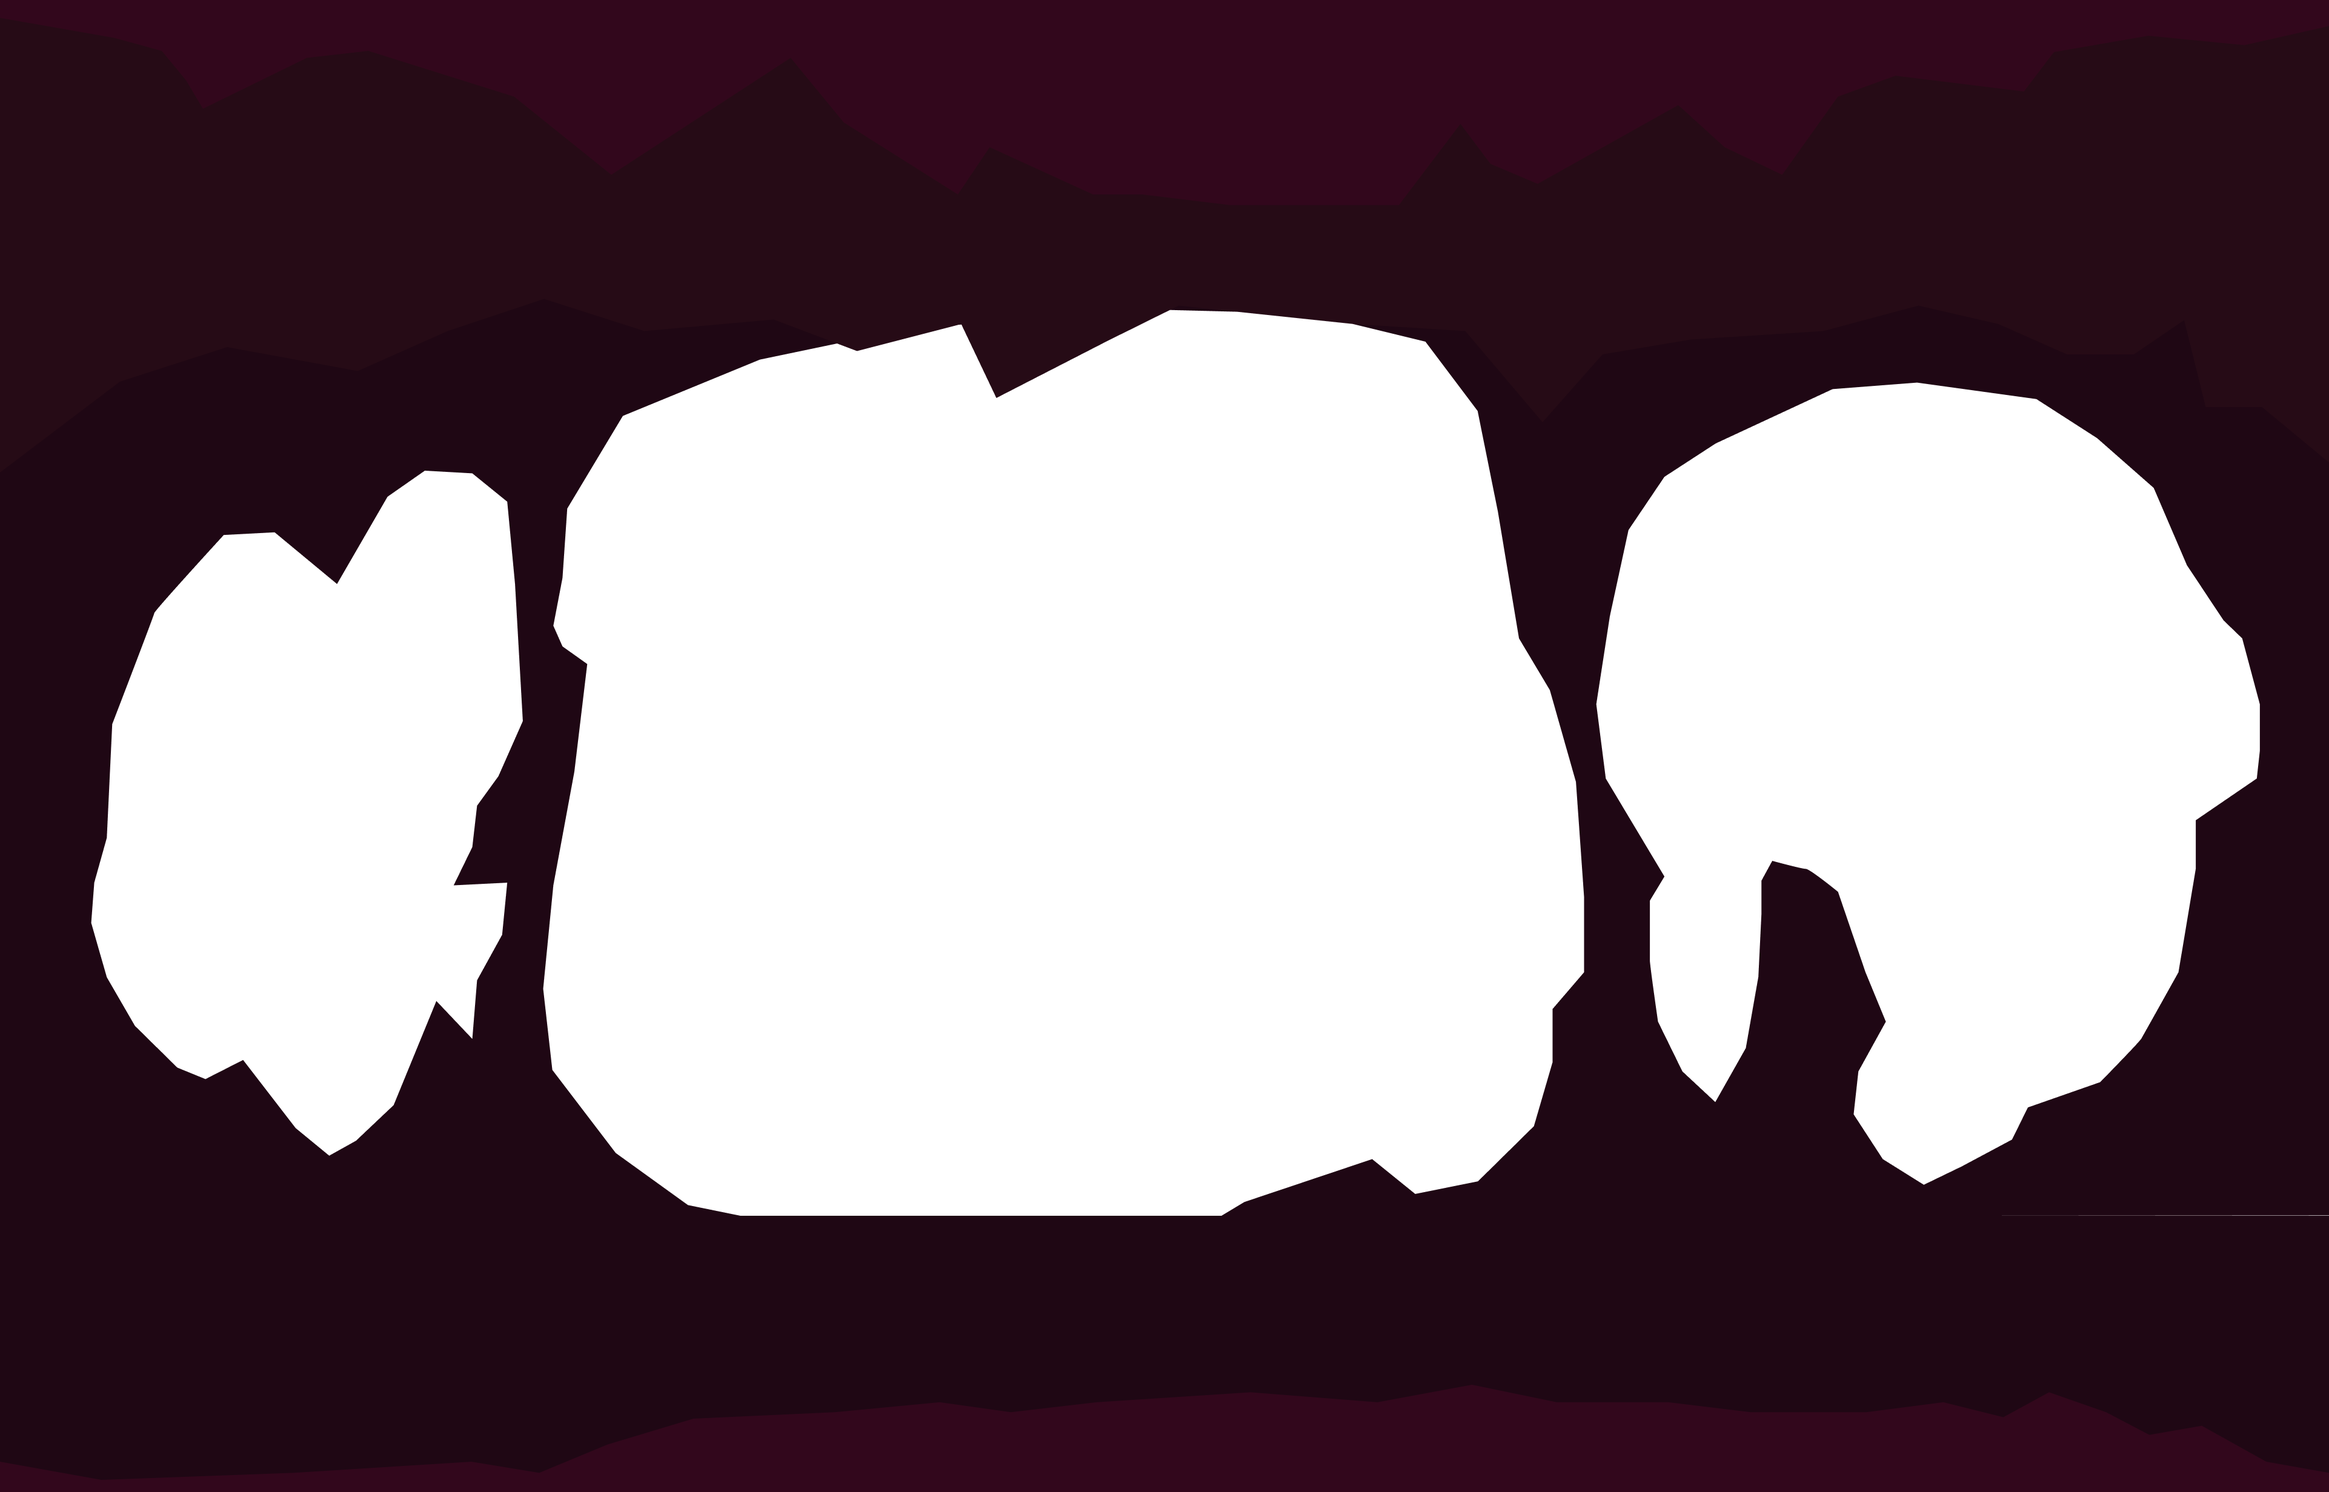
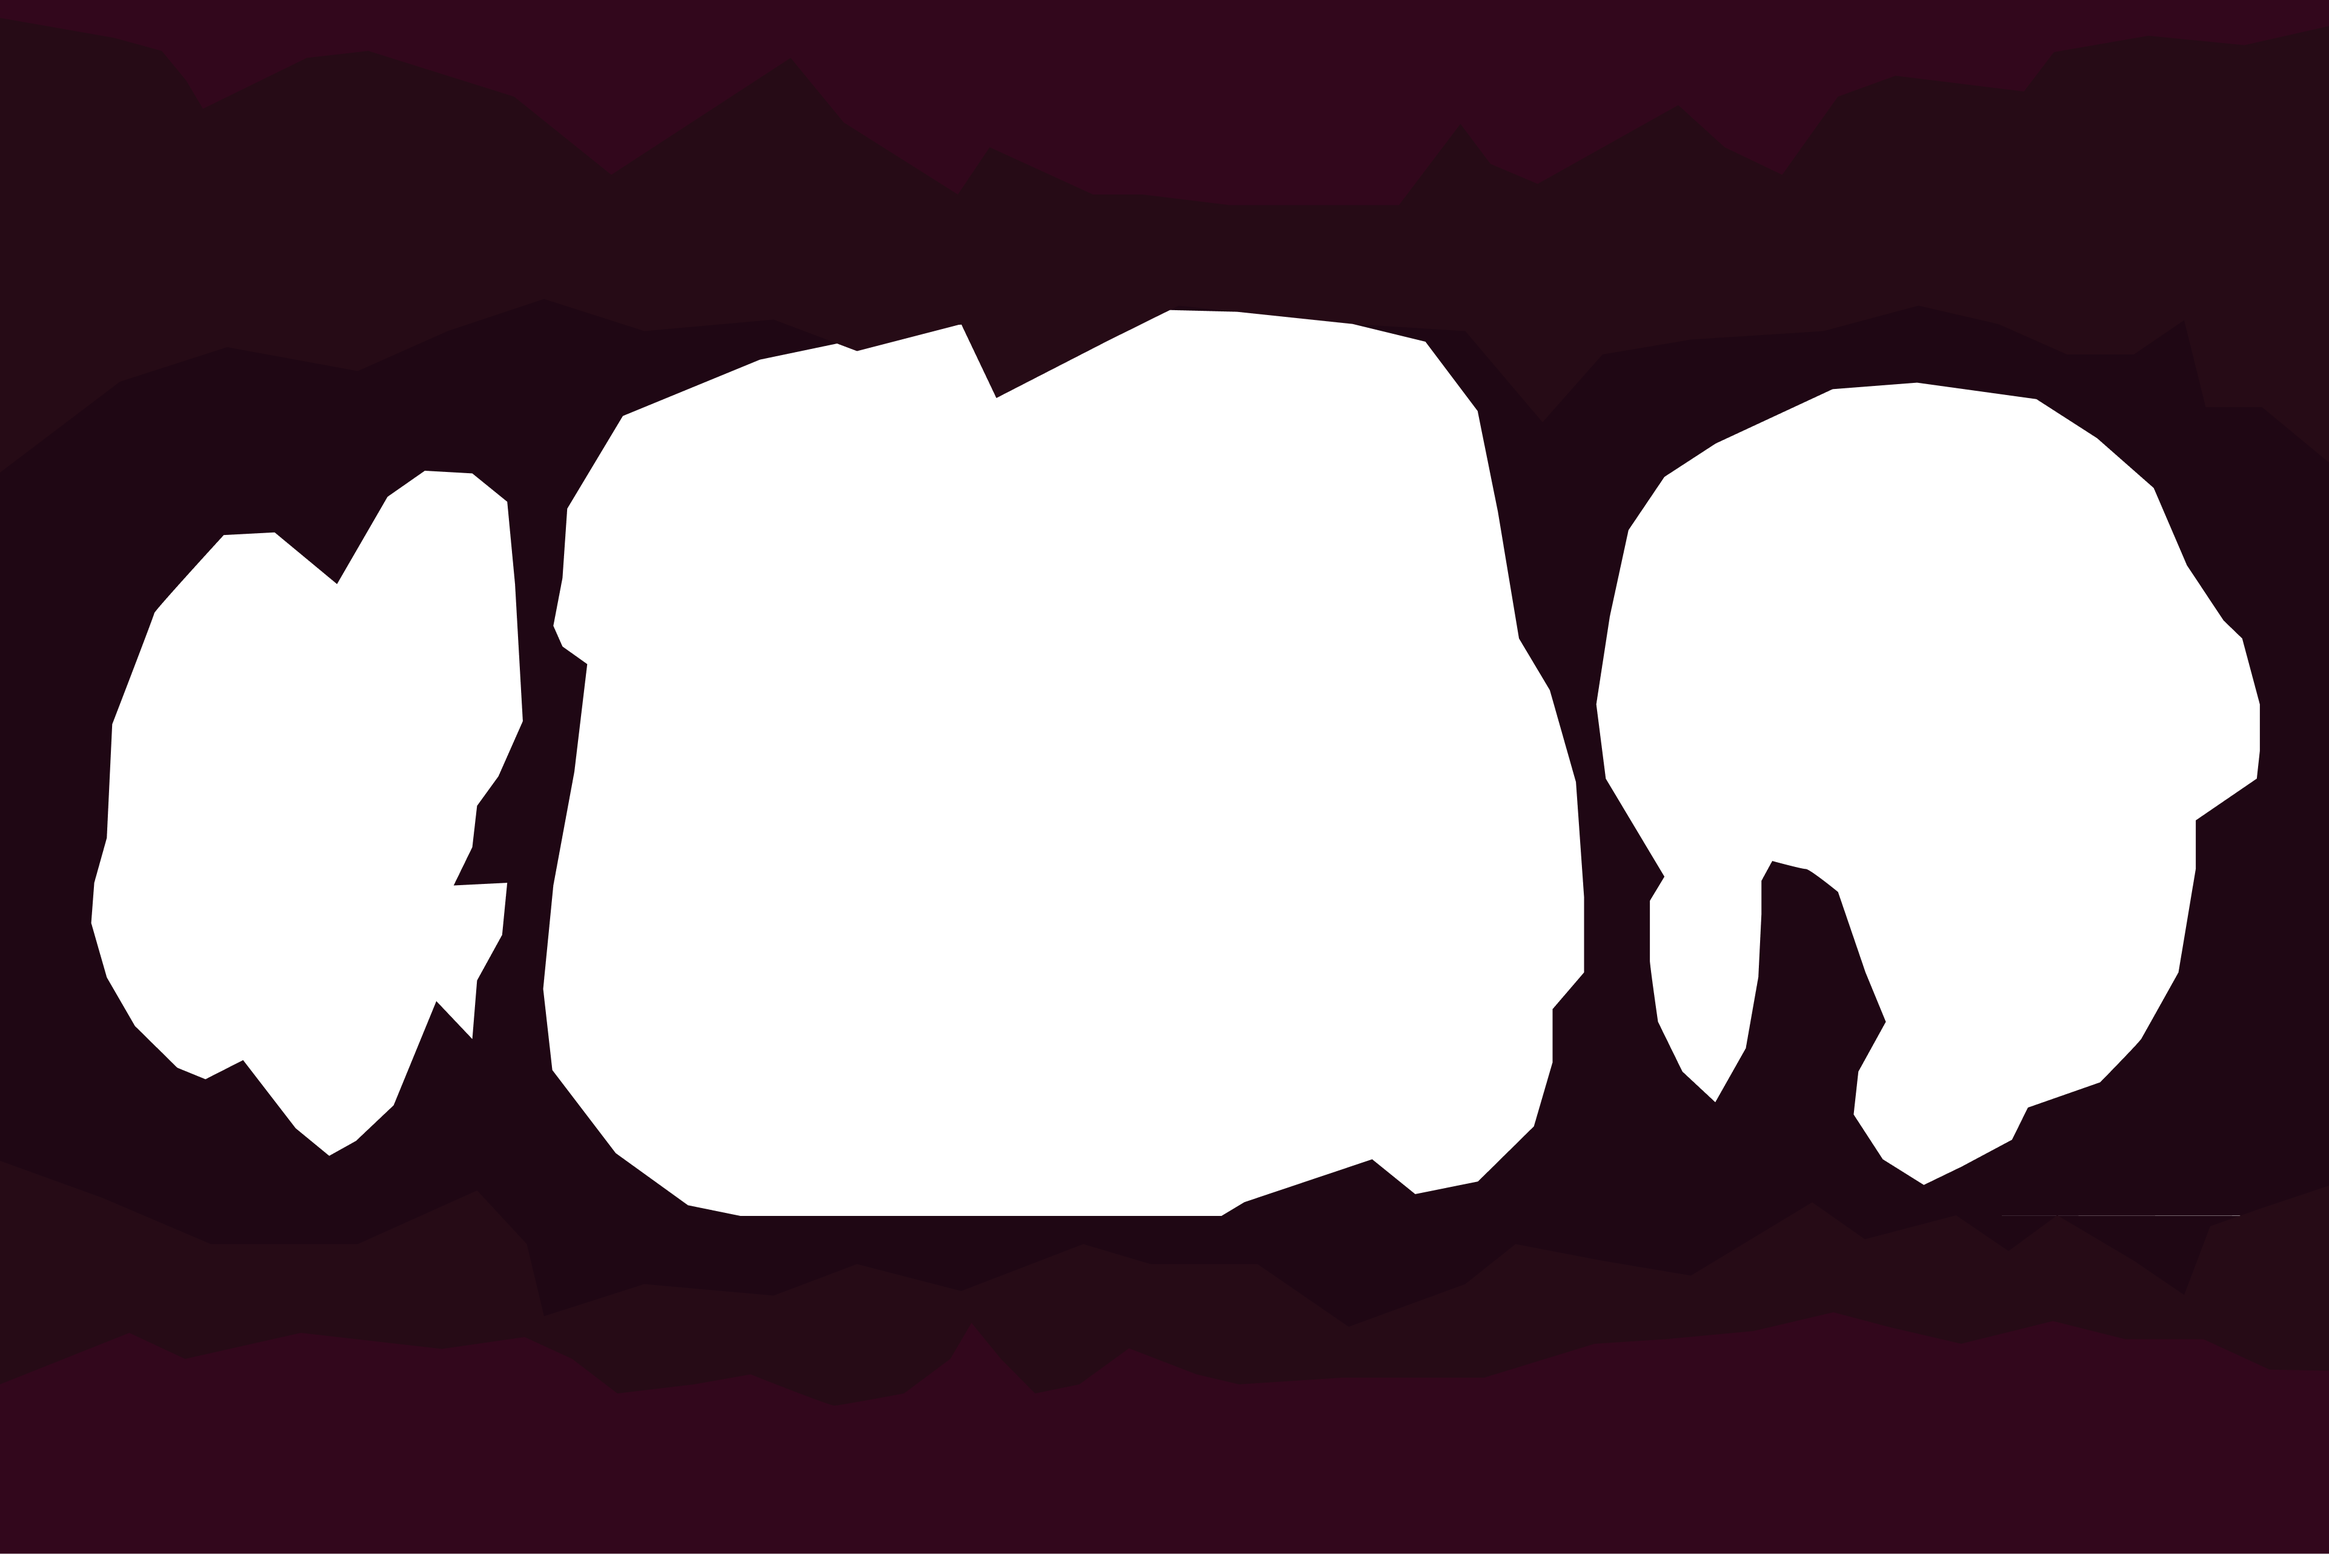
image update

diff --git a/bitnand/index.html b/bitnand/index.html
@@ -5,6 +5,7 @@
     <meta name="viewport" content="width=device-width, initial-scale=1.0">
 
     <title>&lt;/&gt; &ndash; Fullstack Game Developer</title>
+    <link rel="icon" type="image/x-icon" href="icons/fav-icon.webp">
 
     <meta property="og:site_name" content="bitnand">
 
@@ -18,8 +19,6 @@
     <meta property="og:image:height" content="1080">
 
     <meta name="twitter:card" content="summary_large_image">
-
-    <link rel="icon" type="image/x-icon" href="icons/fav-icon.webp">
 
     <link rel="preconnect" href="https://fonts.googleapis.com">
     <link rel="preconnect" href="https://fonts.gstatic.com" crossorigin>
@@ -85,12 +84,12 @@
         <img src="images/foreground-trees.png" width="3844" height="2268" alt="" class="foreground-trees" draggable="false">
 
         <div class="cave-container">
-            <img src="cave-images/cave-foreground-1.png" width="3844" height="2463" alt="" class="cave-foreground-1" draggable="false">
+            <img src="cave-images/cave-foreground-1.png" width="3844" height="2565" alt="" class="cave-foreground-1" draggable="false">
             <img src="cave-images/cave-foreground-2.png" width="3787" height="1930" alt="" class="cave-foreground-2" draggable="false" data-speed="-10">
             <img src="cave-images/cave-middleground-1.png" width="3381" height="1731" alt="" class="cave-middleground-1" draggable="false" data-speed="-13">
             <img src="cave-images/cave-middleground-2.png" width="2944" height="1162" alt="" class="cave-middleground-2" draggable="false" data-speed="-16">
             <img src="cave-images/cave-background-1.png" width="2851" height="1554" alt="" class="cave-background-1" draggable="false" data-speed="-19">
-            <img src="cave-images/cave-background-2.png" width="2778" height="1084" alt="" class="cave-background-2" draggable="false" data-speed="-22">
+            <img src="cave-images/cave-background-2.png" width="2778" height="1084" alt="" class="cave-background-2" draggable="false" data-speed="-28">
 
             <div class="cave-lantern-light" data-speed="-10"></div>
         </div>
@@ -219,10 +218,8 @@
                     bitnand &ndash; imjustagamedeveloper.com
                 </p>
 
-                <a href="work" target="_blank">
-                    <p class="website-other-page-text">
-                        My Work
-                    </p>
+                <a class="website-other-page-text" href="work" target="_blank">
+                    My Work
                 </a>
             </div>
         </div>

diff --git a/bitnand/styles.css b/bitnand/styles.css
@@ -385,6 +385,7 @@ a {
     font-weight: 400;
     color: rgb(193 166 166);
     text-decoration: underline;
+    margin-bottom: 25px;
 }
 
 /*
